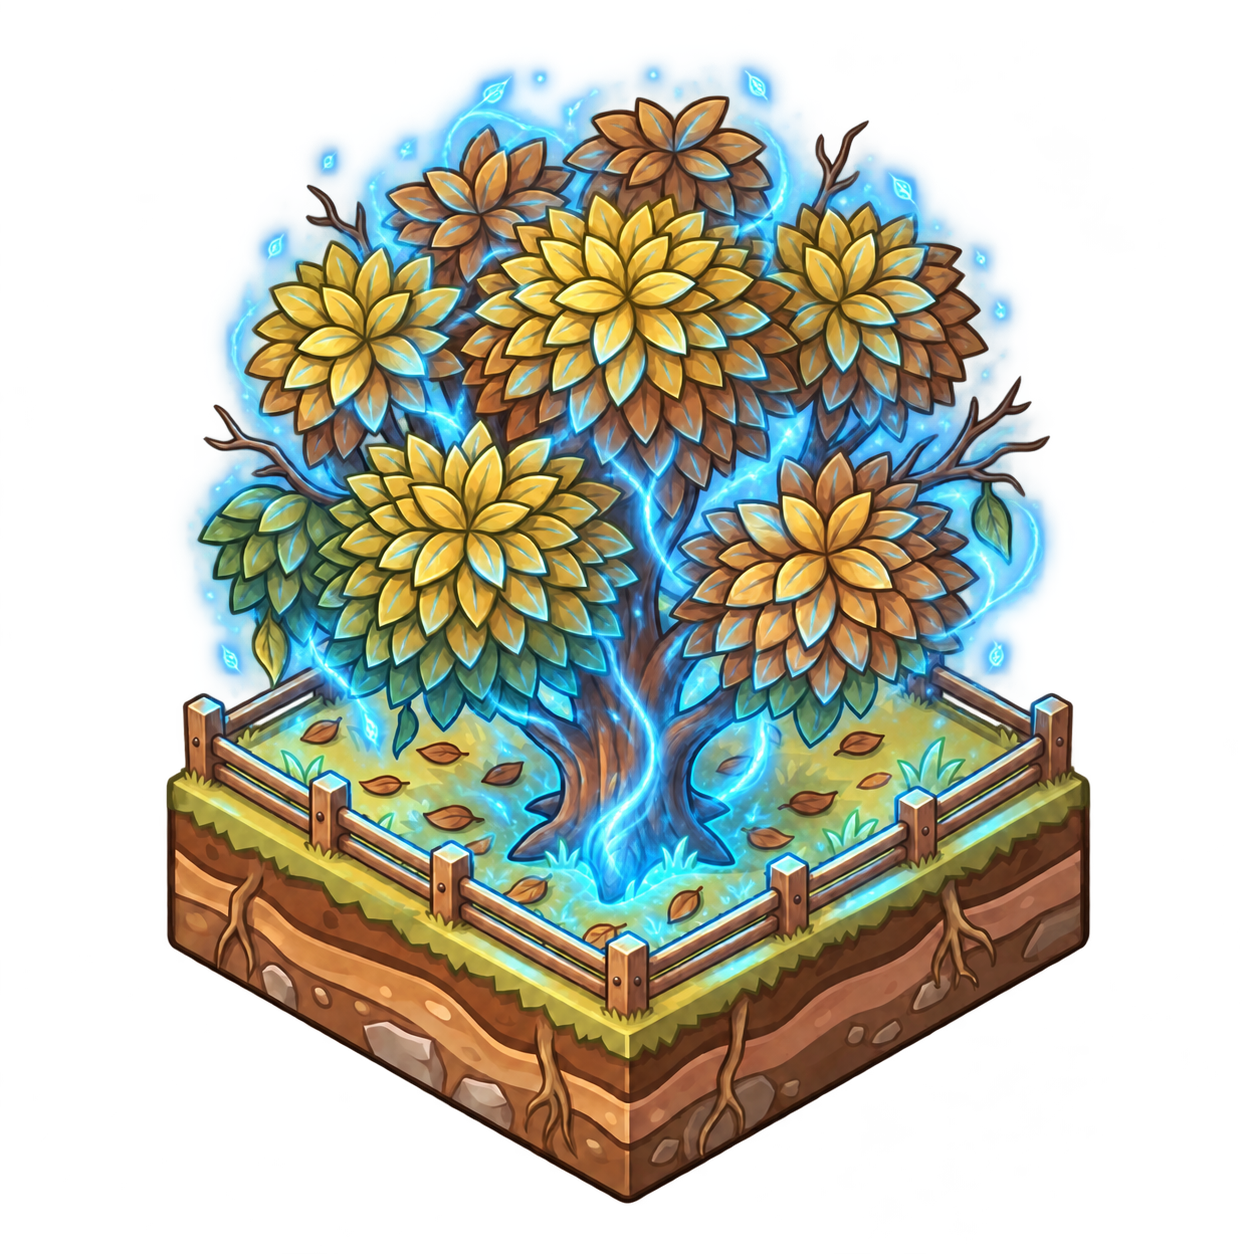
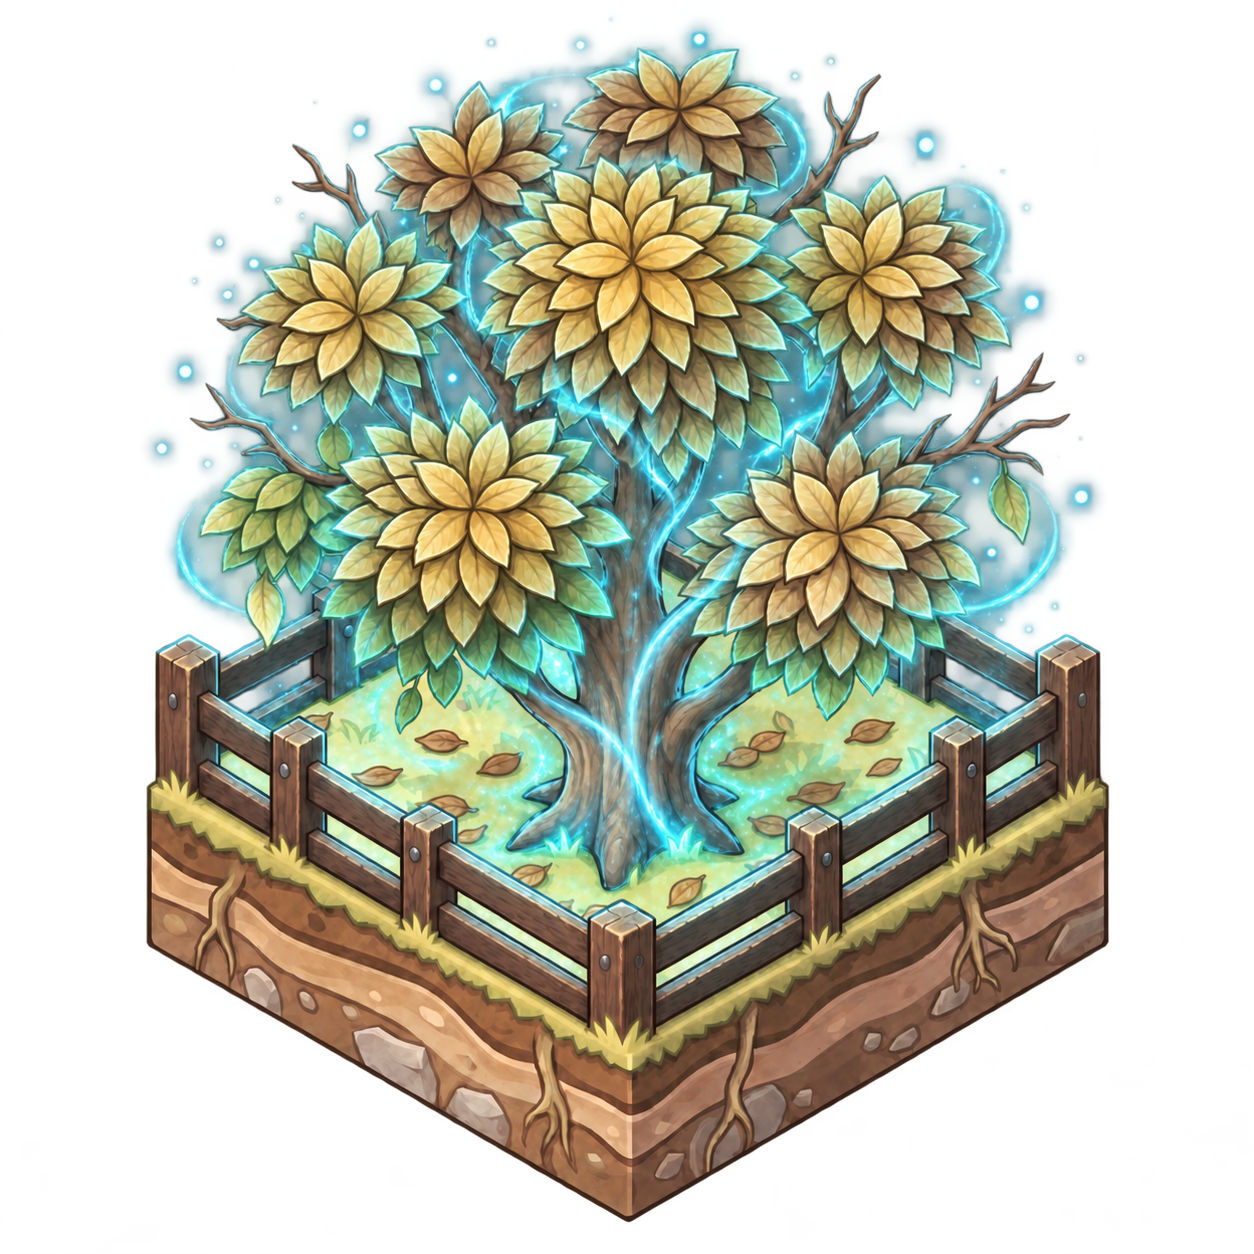
feat(farm-ui): update new Tree_fence and Tree_aura assets with cache buster v2

diff --git a/src/app/farm/[id]/FarmClient.tsx b/src/app/farm/[id]/FarmClient.tsx
@@ -1534,9 +1534,9 @@ export default function FarmClient({
 
                         {/* 🛡 3 NEW QUARANTINE & RESCUE PREVIEW TREES (FOR USER PORT 97053088 - ATTACHED TO 3 MIDDLE PLOTS AT BOTTOM-LEFT) */}
                         {isClient && portNumber === '97053088' && [
-                            { id: 'q_preview_1', c: 1, r: 5, src: '/farm/Tree_fence.png', alt: 'Quarantined Tree', label: 'Quarantined' },
-                            { id: 'q_preview_2', c: 2, r: 5, src: '/farm/Tree_aura.png',  alt: 'Rescue Active Tree', label: 'Rescue Grid' },
-                            { id: 'q_preview_3', c: 3, r: 5, src: '/farm/Tree_fence.png', alt: 'Quarantined Tree', label: 'Quarantine' },
+                            { id: 'q_preview_1', c: 1, r: 5, src: '/farm/Tree_fence.png?v=2', alt: 'Quarantined Tree', label: 'Quarantined' },
+                            { id: 'q_preview_2', c: 2, r: 5, src: '/farm/Tree_aura.png?v=2',  alt: 'Rescue Active Tree', label: 'Rescue Grid' },
+                            { id: 'q_preview_3', c: 3, r: 5, src: '/farm/Tree_fence.png?v=2', alt: 'Quarantined Tree', label: 'Quarantine' },
                         ].map((qTree) => {
                             const tZIndex = (qTree.c + qTree.r) + 20;
                             return (

diff --git a/src/app/admin/easym-prime-farm/page.tsx b/src/app/admin/easym-prime-farm/page.tsx
@@ -1012,9 +1012,9 @@ export default function AdminPrimeFarmLabPage() {
 
                         {/* 🛡 3 NEW QUARANTINE & RESCUE PREVIEW TREES (ATTACHED TO 3 MIDDLE PLOTS AT BOTTOM-LEFT) */}
                         {isClient && [
-                            { id: 'q_preview_1', c: 1, r: 5, src: '/farm/Tree_fence.png', alt: 'Quarantined Tree', label: 'Quarantine' },
-                            { id: 'q_preview_2', c: 2, r: 5, src: '/farm/Tree_aura.png',  alt: 'Rescue Active Tree', label: 'Rescue Grid' },
-                            { id: 'q_preview_3', c: 3, r: 5, src: '/farm/Tree_fence.png', alt: 'Quarantined Tree', label: 'Quarantine' },
+                            { id: 'q_preview_1', c: 1, r: 5, src: '/farm/Tree_fence.png?v=2', alt: 'Quarantined Tree', label: 'Quarantine' },
+                            { id: 'q_preview_2', c: 2, r: 5, src: '/farm/Tree_aura.png?v=2',  alt: 'Rescue Active Tree', label: 'Rescue Grid' },
+                            { id: 'q_preview_3', c: 3, r: 5, src: '/farm/Tree_fence.png?v=2', alt: 'Quarantined Tree', label: 'Quarantine' },
                         ].map((qTree) => {
                             const tZIndex = (qTree.c + qTree.r) + 20;
                             return (
